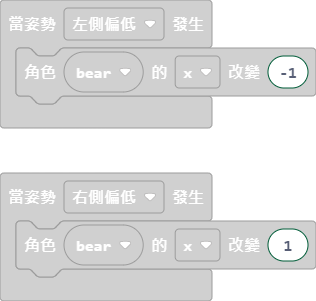
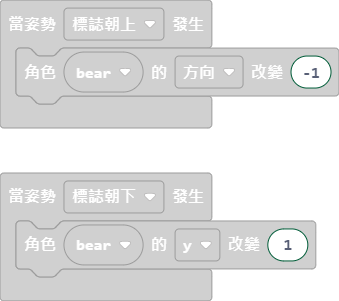
更改移動錯誤2

diff --git a/main.ts b/main.ts
@@ -1,8 +1,8 @@
 input.onGesture(Gesture.LogoUp, function () {
-    bear.change(LedSpriteProperty.Direction, 1)
+    bear.change(LedSpriteProperty.Direction, -1)
 })
 input.onGesture(Gesture.LogoDown, function () {
-    bear.change(LedSpriteProperty.Y, -1)
+    bear.change(LedSpriteProperty.Y, 1)
 })
 input.onGesture(Gesture.TiltLeft, function () {
     bear.change(LedSpriteProperty.X, -1)
